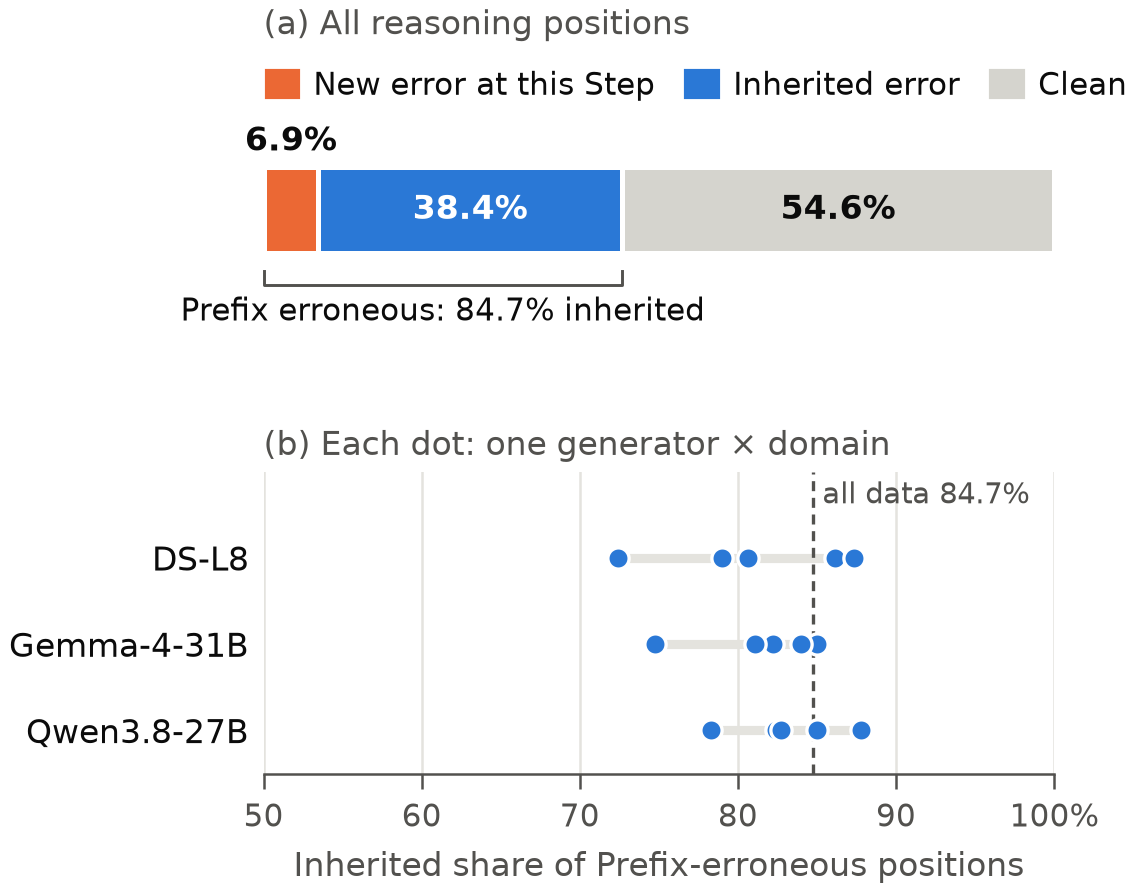
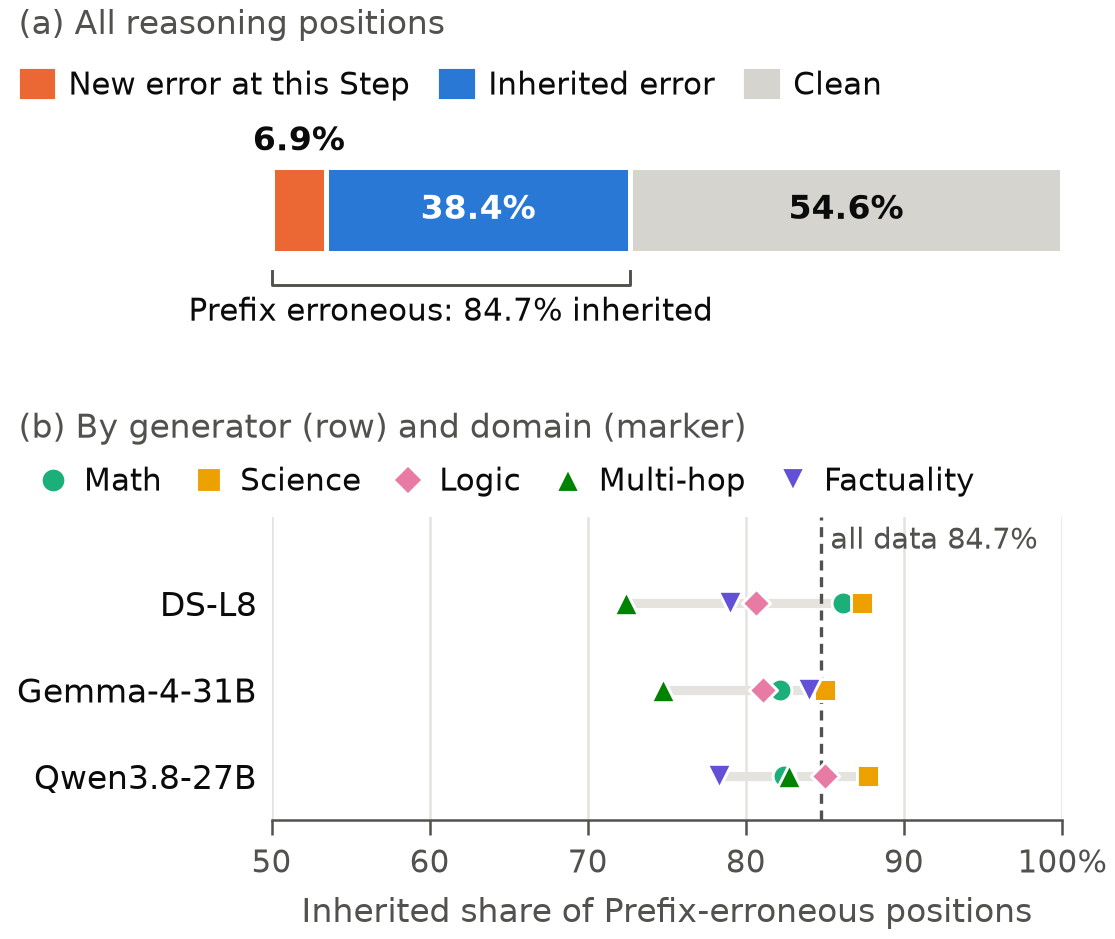
docs: mark domains in the composition figure and add captions to the three motivation figures

diff --git a/experiments/prefix_recovery_diagnostic_20261112/README.md b/experiments/prefix_recovery_diagnostic_20261112/README.md
@@ -14,6 +14,8 @@ A detector can approximate this with a weaker cue: whether any error has occurre
 
 ![Separation of still-active errors from clean positions, per detector](result/figure.png)
 
+*Figure. AUROC of each detector's Prefix score for separating positions with a still-active inherited error from three kinds of clean positions on TEST: positions of trajectories with no error so far (circle), positions after a corrected error (square), and positions after a corrected error in the same trajectory, averaged over trajectories (diamond). Each value is the mean over generator/domain combinations (15 per detector, 11 for ICR Probe). The dashed line marks chance.*
+
 ## Analysis settings
 
 On TEST positions with Y=0, the positive class is **inherited** (C=1). Negatives are split by history:

diff --git a/experiments/step_prefix_composition_20261111/README.md b/experiments/step_prefix_composition_20261111/README.md
@@ -14,6 +14,8 @@ Prefix error probability is therefore Step error probability plus the inherited 
 
 ![Three-outcome composition and inherited share per combination](result/figure.png)
 
+*Figure. (a) Share of all 1,445,280 reasoning positions that introduce a new error (Y=1), carry an inherited error (Y=0, C=1) or are clean (C=0). The bracket marks Prefix-erroneous positions, of which 84.7% are inherited. (b) Inherited share of Prefix-erroneous positions for each of the 15 generator/domain combinations: one row per generator, one marker per domain. The dashed line is the share over all data.*
+
 ## Analysis settings
 
 | Setting | Value |

diff --git a/experiments/prefix_answer_endpoint_20261110/README.md b/experiments/prefix_answer_endpoint_20261110/README.md
@@ -8,6 +8,8 @@ Here, reasoning correctness is operationalized by the label of the **final retai
 
 ![Answer label split by the final Prefix label](result/figure.png)
 
+*Figure. Share of wrong and correct Answers among trajectories whose final Prefix is erroneous (top) or clean (bottom), over all 15,697 trajectories. n is the number of trajectories in each row.*
+
 ## Analysis settings
 
 | Setting | Value |
